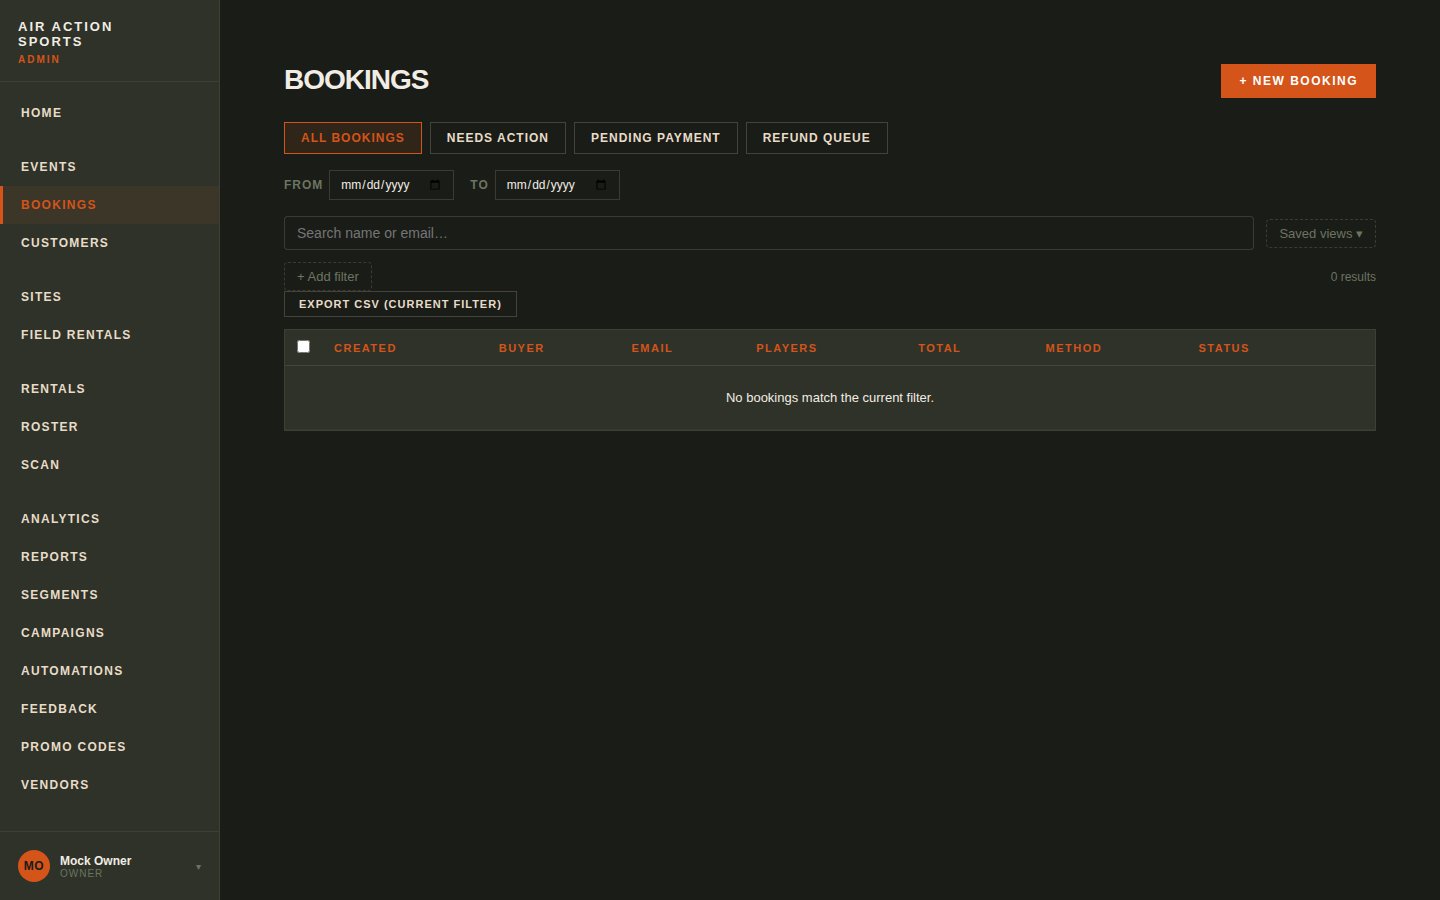
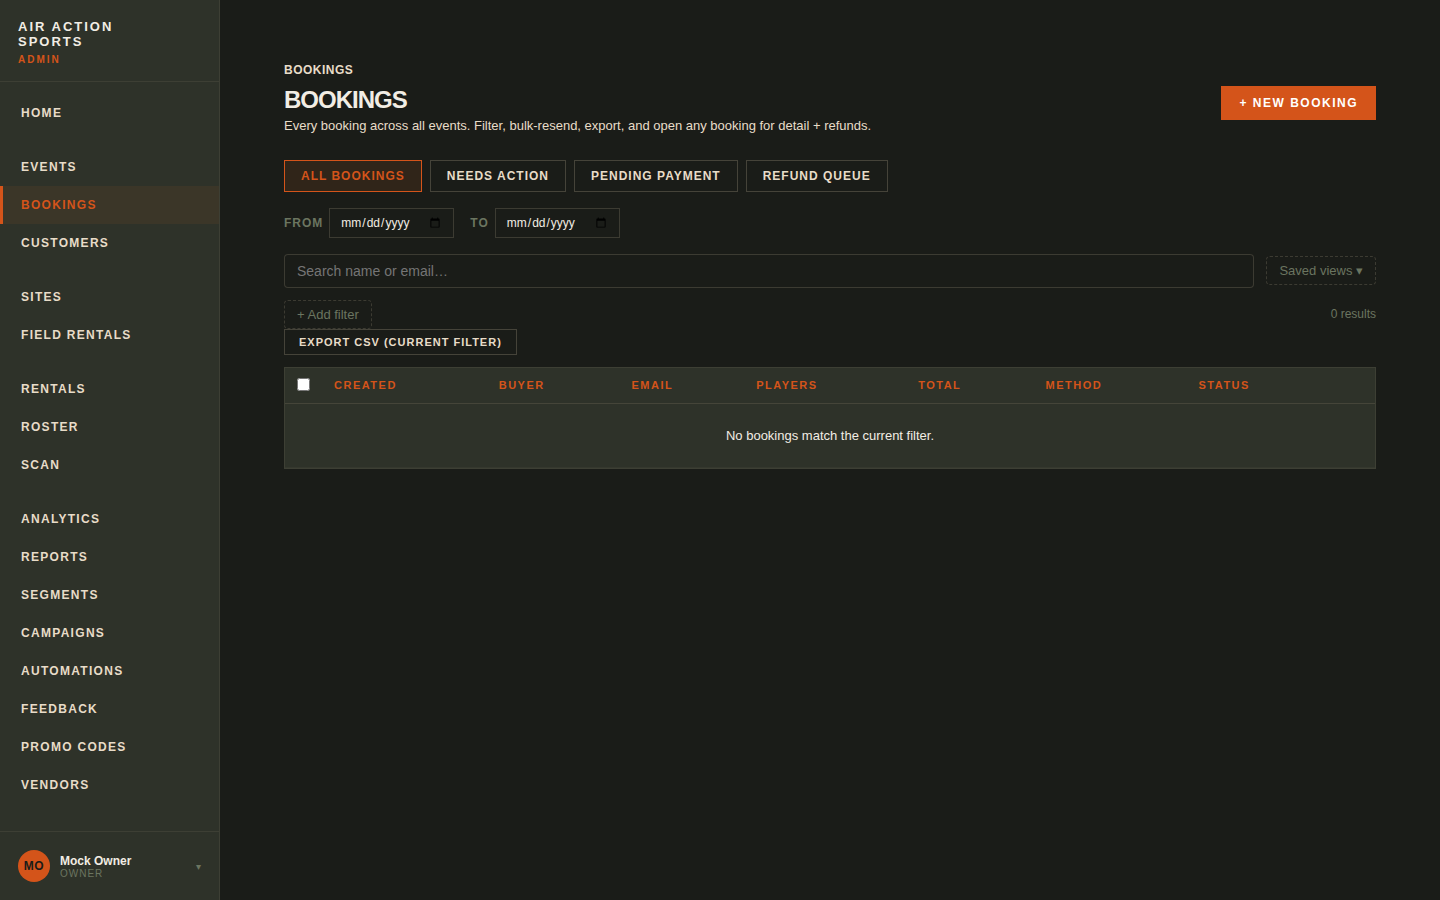
polish(admin): conform Bookings + Customers to the AdminPageHeader house style (#306)
* polish(admin): conform Bookings + Customers to the AdminPageHeader house style

First batch of the admin design-consistency pass. Bookings + Customers (and
their detail pages) predated the AdminPageHeader standardization and rolled
their own headers / CSS, so they looked different from the 19 house-style pages
(and from each other). This brings them onto the standard.

- AdminCustomers (list): swap the custom title-case header for AdminPageHeader
  (eyebrow + ALL-CAPS title + description); define the missing orange primary
  button (--primary class was referenced but never defined → fell back to gray);
  re-point the table headers (gray → orange), table-box surface, pills, name
  link, error/empty, and container from raw rgba()/--cream/--orange to the
  --color-* house tokens. Verified by rendering through the visual-admin harness.
- AdminBookings (list): swap the custom <h1> header for AdminPageHeader. Its
  table was already orange-headed/house-aligned, so only the header changed.
  Verified via the harness.
- AdminCustomerDetail (shares AdminCustomers.css): fix a hardcoded LIGHT
  "Client type" pill (#cffafe/#e5e7eb on dark) → info/neutral tokens; re-token
  the cards (orange section titles, --color-bg-elevated surface), dl, stats,
  muted text, and the subtle button to the house tokens.
- AdminBookingsDetail: already house-consistent (--mid cards == --color-bg-
  elevated, orange section titles, caps title) — no change needed.
[…]

diff --git a/src/admin/AdminCustomers.css b/src/admin/AdminCustomers.css
@@ -5,9 +5,9 @@
  * (table row padding picks up data-density="compact" tokens). */
 
 .admin-customers {
-    color: var(--cream);
-    padding: 1.5rem;
-    max-width: 1280px;
+    color: var(--color-text);
+    padding: var(--space-32);
+    max-width: 1200px;
     margin: 0 auto;
 }
 
@@ -41,27 +41,27 @@
 
 .admin-customers__loading,
 .admin-customers__empty {
-    color: rgba(255, 255, 255, 0.55);
+    color: var(--color-text-muted);
     text-align: center;
-    padding: 1.5rem;
+    padding: var(--space-24);
 }
 
 .admin-customers__error {
-    color: #ff8888;
-    background: rgba(255, 0, 0, 0.08);
-    border-left: 3px solid #ff8888;
-    padding: 0.5rem 0.75rem;
-    margin: 0.75rem 0;
+    color: var(--color-text);
+    background: var(--color-danger-soft);
+    border-left: 3px solid var(--color-danger);
+    padding: var(--space-8) var(--space-12);
+    margin: var(--space-12) 0;
 }
 
 /* === Table === */
 
 .admin-customers__table-wrap {
     overflow-x: auto;
-    border-radius: 8px;
-    background: rgba(255, 255, 255, 0.03);
-    border: 1px solid rgba(255, 255, 255, 0.08);
-    margin-top: 1rem;
+    background: var(--color-bg-elevated);
+    border: 1px solid var(--color-border);
+    padding: var(--space-24);
+    margin-top: var(--space-16);
 }
 
 .admin-customers__table {
@@ -70,21 +70,22 @@
 }
 
 .admin-customers__table thead th {
-    background: rgba(255, 255, 255, 0.05);
-    color: rgba(255, 255, 255, 0.7);
+    background: transparent;
+    color: var(--color-accent);
     text-align: left;
-    padding: 0.6rem 0.85rem;
-    font-size: 0.85rem;
-    font-weight: 600;
+    padding: var(--space-8) var(--space-12);
+    font-size: var(--font-size-sm);
+    font-weight: var(--font-weight-extrabold);
     text-transform: uppercase;
-    letter-spacing: 0.04em;
-    border-bottom: 1px solid rgba(255, 255, 255, 0.1);
+    letter-spacing: var(--letter-spacing-wide);
+    border-bottom: 1px solid var(--color-border-strong);
 }
 
 .admin-customers__table tbody td {
-    padding: 0.65rem 0.85rem;
-    border-bottom: 1px solid rgba(255, 255, 255, 0.05);
+    padding: var(--space-8) var(--space-12);
+    border-bottom: 1px solid var(--color-border-subtle);
     vertical-align: middle;
+    color: var(--color-text);
 }
 
 .admin-customers__table tbody tr:last-child td {
@@ -105,20 +106,20 @@
 }
 
 .admin-customers__name-link {
-    color: var(--cream);
+    color: var(--color-text);
     text-decoration: none;
-    font-weight: 600;
+    font-weight: var(--font-weight-bold);
 }
 
 .admin-customers__name-link:hover {
     text-decoration: underline;
-    color: var(--orange);
+    color: var(--color-accent);
 }
 
 .admin-customers__email {
-    color: rgba(255, 255, 255, 0.75);
+    color: var(--color-text-muted);
     font-family: ui-monospace, SFMono-Regular, Menlo, Consolas, monospace;
-    font-size: 0.9rem;
+    font-size: var(--font-size-sm);
 }
 
 [data-density='compact'] .admin-customers__table thead th,
@@ -140,13 +141,13 @@
 }
 
 .admin-customers__pill--active {
-    background: rgba(120, 220, 120, 0.18);
-    color: #9ee79e;
+    background: var(--color-success-soft);
+    color: var(--color-success);
 }
 
 .admin-customers__pill--archived {
-    background: rgba(180, 180, 180, 0.18);
-    color: rgba(255, 255, 255, 0.65);
+    background: var(--color-bg-sunken);
+    color: var(--color-text-muted);
 }
 
 .admin-customers__status-pill {
@@ -239,11 +240,10 @@
 }
 
 .admin-customers__card {
-    background: rgba(255, 255, 255, 0.03);
-    border: 1px solid rgba(255, 255, 255, 0.08);
-    border-radius: 8px;
-    padding: 1rem 1.25rem;
-    margin-bottom: 1rem;
+    background: var(--color-bg-elevated);
+    border: 1px solid var(--color-border);
+    padding: var(--space-16) var(--space-24);
+    margin-bottom: var(--space-16);
 }
 
 .admin-customers__card--muted {
@@ -251,12 +251,12 @@
 }
 
 .admin-customers__card h2 {
-    margin: 0 0 0.85rem 0;
-    font-size: 1.05rem;
-    color: var(--cream);
+    margin: 0 0 var(--space-12) 0;
+    font-size: var(--font-size-base);
+    color: var(--color-accent);
     text-transform: uppercase;
-    letter-spacing: 0.04em;
-    font-weight: 600;
+    letter-spacing: var(--letter-spacing-wide);
+    font-weight: var(--font-weight-extrabold);
 }
 
 .admin-customers__card-header {
@@ -278,18 +278,18 @@
 }
 
 .admin-customers__dl dt {
-    color: rgba(255, 255, 255, 0.6);
-    font-size: 0.88rem;
+    color: var(--color-text-muted);
+    font-size: var(--font-size-sm);
 }
 
 .admin-customers__dl dd {
     margin: 0;
-    color: var(--cream);
+    color: var(--color-text);
 }
 
 .admin-customers__muted {
-    color: rgba(255, 255, 255, 0.5);
-    font-size: 0.88rem;
+    color: var(--color-text-subtle);
+    font-size: var(--font-size-sm);
 }
 
 .admin-customers__stats {
@@ -299,22 +299,21 @@
 }
 
 .admin-customers__stat {
-    background: rgba(255, 255, 255, 0.04);
-    padding: 0.65rem 0.85rem;
-    border-radius: 6px;
+    background: var(--color-bg-sunken);
+    padding: var(--space-12) var(--space-16);
 }
 
 .admin-customers__stat-label {
-    color: rgba(255, 255, 255, 0.55);
-    font-size: 0.78rem;
+    color: var(--color-text-muted);
+    font-size: var(--font-size-xs);
     text-transform: uppercase;
-    letter-spacing: 0.04em;
+    letter-spacing: var(--letter-spacing-wide);
 }
 
 .admin-customers__stat-value {
-    color: var(--cream);
-    font-size: 1.15rem;
-    font-weight: 600;
+    color: var(--color-text);
+    font-size: var(--font-size-xl);
+    font-weight: var(--font-weight-extrabold);
     margin-top: 0.2rem;
     font-variant-numeric: tabular-nums;
 }
@@ -368,13 +367,12 @@
 /* === Buttons === */
 
 .admin-customers__btn {
-    background: rgba(255, 255, 255, 0.06);
-    color: var(--cream);
-    border: 1px solid rgba(255, 255, 255, 0.12);
-    padding: 0.45rem 1rem;
-    border-radius: 4px;
+    background: transparent;
+    color: var(--color-text-muted);
+    border: 1px solid var(--color-border-strong);
+    padding: var(--space-8) var(--space-16);
     cursor: pointer;
-    font-size: 0.92rem;
+    font-size: var(--font-size-sm);
 }
 
 .admin-customers__btn:hover:not(:disabled) {
@@ -384,6 +382,22 @@
 .admin-customers__btn:disabled {
     opacity: 0.4;
     cursor: not-allowed;
+}
+
+.admin-customers__btn--primary {
+    background: var(--color-accent);
+    border-color: var(--color-accent);
+    color: var(--color-accent-on-accent);
+    font-weight: var(--font-weight-extrabold);
+    letter-spacing: var(--letter-spacing-wide);
+    text-transform: uppercase;
+    font-size: var(--font-size-sm);
+    padding: var(--space-8) var(--space-16);
+}
+
+.admin-customers__btn--primary:hover:not(:disabled) {
+    background: var(--color-accent);
+    filter: brightness(1.08);
 }
 
 .admin-customers__btn--danger {

diff --git a/src/admin/AdminCustomers.jsx b/src/admin/AdminCustomers.jsx
@@ -6,6 +6,7 @@
 
 import { useState, useEffect, useMemo, useCallback } from 'react';
 import { Link } from 'react-router-dom';
+import AdminPageHeader from '../components/admin/AdminPageHeader.jsx';
 import FilterBar from '../components/admin/FilterBar';
 import { formatMoney } from '../utils/money.js';
 import CustomerCreateModal from './CustomerCreateModal.jsx';
@@ -75,21 +76,20 @@ export default function AdminCustomers() {
 
     return (
         <div className="admin-customers">
-            <header className="admin-customers__header" style={{ display: 'flex', alignItems: 'flex-start', justifyContent: 'space-between', gap: '1rem' }}>
-                <div>
-                    <h1>Customers</h1>
-                    <p className="admin-customers__subtitle">
-                        {data.total} {data.total === 1 ? 'customer' : 'customers'}
-                    </p>
-                </div>
-                <button
-                    type="button"
-                    className="admin-customers__btn admin-customers__btn--primary"
-                    onClick={() => setCreateOpen(true)}
-                >
-                    + New customer
-                </button>
-            </header>
+            <AdminPageHeader
+                title="Customers"
+                description="Every booking customer. Search, filter, merge duplicates, and manage GDPR requests."
+                breadcrumb={[{ label: 'Customers' }]}
+                primaryAction={(
+                    <button
+                        type="button"
+                        className="admin-customers__btn admin-customers__btn--primary"
+                        onClick={() => setCreateOpen(true)}
+                    >
+                        + New customer
+                    </button>
+                )}
+            />
 
             <FilterBar
                 schema={FILTER_SCHEMA}

diff --git a/src/admin/AdminBookings.jsx b/src/admin/AdminBookings.jsx
@@ -23,6 +23,7 @@ import { useState, useEffect, useMemo, useCallback } from 'react';
 import { Link, useNavigate } from 'react-router-dom';
 import { useAdmin } from './AdminContext';
 import FilterBar from '../components/admin/FilterBar.jsx';
+import AdminPageHeader from '../components/admin/AdminPageHeader.jsx';
 import { formatMoney } from '../utils/money.js';
 import './AdminBookings.css';
 
@@ -237,12 +238,14 @@ export default function AdminBookings() {
 
     return (
         <div className="admin-bookings">
-            <header className="admin-bookings__header">
-                <h1>Bookings</h1>
-                {hasRole?.('manager') && (
+            <AdminPageHeader
+                title="Bookings"
+                description="Every booking across all events. Filter, bulk-resend, export, and open any booking for detail + refunds."
+                breadcrumb={[{ label: 'Bookings' }]}
+                primaryAction={hasRole?.('manager') && (
                     <Link to="/admin/new-booking" className="admin-bookings__cta">+ New Booking</Link>
                 )}
-            </header>
+            />
 
             <div className="admin-bookings__quick-filters">
                 {QUICK_FILTERS.map((qf) => (

diff --git a/src/admin/AdminCustomerDetail.jsx b/src/admin/AdminCustomerDetail.jsx
@@ -144,8 +144,8 @@ export default function AdminCustomerDetail() {
                         <span
                             className="admin-customers__pill"
                             style={{
-                                background: isBusiness ? '#cffafe' : '#e5e7eb',
-                                color: isBusiness ? '#0e7490' : '#475569',
+                                background: isBusiness ? 'var(--color-info-soft)' : 'var(--color-bg-sunken)',
+                                color: isBusiness ? 'var(--color-info)' : 'var(--color-text-muted)',
                             }}
                         >
                             {isBusiness ? 'Business' : 'Individual'}

diff --git a/tests/unit/admin/AdminCustomers.test.jsx b/tests/unit/admin/AdminCustomers.test.jsx
@@ -40,8 +40,8 @@ describe('AdminCustomers', () => {
         renderWithRouter(<AdminCustomers />);
         await waitFor(() => expect(screen.getByText('Sarah Chen')).toBeInTheDocument());
         expect(screen.getByText('[email redacted]')).toBeInTheDocument();
-        // header count
-        expect(screen.getByText('2 customers')).toBeInTheDocument();
+        // page header (AdminPageHeader renders the title as an h1)
+        expect(screen.getByRole('heading', { name: 'Customers' })).toBeInTheDocument();
         // active vs archived pills
         expect(screen.getByText('active')).toBeInTheDocument();
         expect(screen.getByText('merged')).toBeInTheDocument();